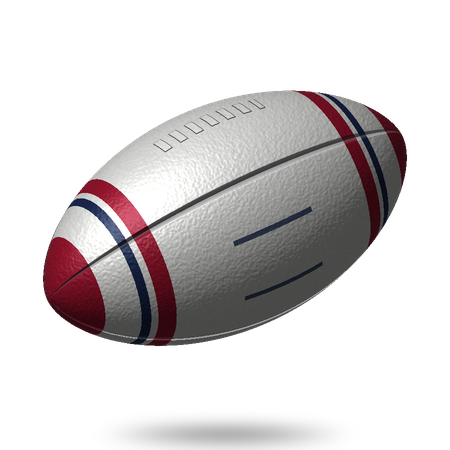
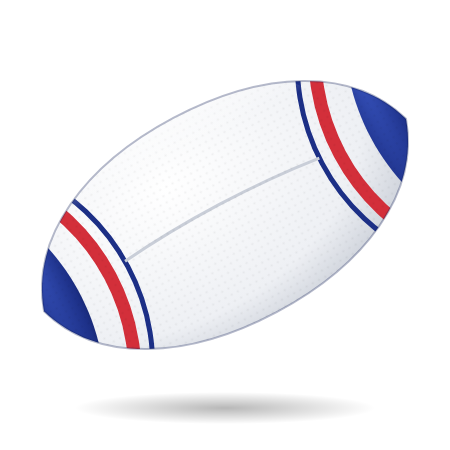
Site : bandeau des départements, choix de « À la une », sous-titres par sport, titres sans chevauchement, nouveau ballon de rugby [skip netlify]
Claude-Session: https://claude.ai/code/session_01VTxveCi6UCshbm1EzkaR32

diff --git a/app.html b/app.html
@@ -53,7 +53,8 @@ button,select,input{font:inherit;color:inherit}
 .week select option{color:#0f1a2e}
 .headline{display:flex;flex-wrap:wrap;align-items:flex-end;justify-content:space-between;gap:10px 24px;padding:26px 0 18px}
 .headline .kick{display:block;margin:0 0 8px;font:700 13px var(--body);letter-spacing:.12em;text-transform:uppercase;color:rgba(255,255,255,.8)}
-.headline h1{margin:0;font:800 clamp(52px,11vw,118px)/.86 var(--head);letter-spacing:-.01em;text-transform:none}
+.headline h1{margin:0;padding-bottom:.14em;font:800 clamp(52px,11vw,118px)/.86 var(--head);letter-spacing:-.01em;text-transform:none}
+.headline #lede{position:relative;margin-top:6px}
 .headline h1.long{font-size:clamp(44px,7.4vw,88px);line-height:.92}
 .headline p{margin:10px 0 0;max-width:620px;font-size:16.5px;color:rgba(255,255,255,.86)}
 .headline .when{font:700 clamp(18px,2.2vw,24px)/1.1 var(--head);letter-spacing:.02em;text-align:right}
@@ -172,6 +173,7 @@ main{padding:22px 0 50px}
 .une .k{font:700 12px var(--body);letter-spacing:.12em;text-transform:uppercase;color:var(--c)}
 .une h2{margin:6px 0 8px;font:800 clamp(30px,4.2vw,46px)/1 var(--head)}
 .une p{margin:0;color:var(--muted)}
+.une p.art{margin-top:10px}
 .une .big{display:flex;align-items:center;justify-content:center;gap:12px;padding:20px;border-radius:16px;background:var(--c);color:#fff}
 .une .big b{font:800 clamp(56px,8vw,84px)/1 var(--head)}
 .une .big span{font:600 14px var(--body);opacity:.85;text-align:center;max-width:120px}
@@ -344,7 +346,7 @@ footer a{color:var(--muted)}
 
 <script id="t-datajs" src="data.js"></script>
 <script id="app">
-const DEPS='Marne, Ardennes, Aube, Haute-Marne et Aisne';
+const DEPS='Marne - Ardennes - Aube - Haute-Marne et Aisne';
 (window.RSH_DATA ? Promise.resolve(window.RSH_DATA) : fetch('data.json',{cache:'no-store'}).then(r=>{if(!r.ok)throw new Error(r.status);return r.json();})).then(d=>{ try{ start(d); }catch(e){ console.error(e); rshFail(e); } }).catch(()=>{
   document.getElementById('main').innerHTML='<div class="empty">Les résultats n\'ont pas pu être chargés. Recharge la page dans un instant.</div>';
 });
@@ -365,14 +367,14 @@ function start(DATA){
 
   // ——— sports: order of the menu = order everywhere ———
   const SP={
-    'Football':{slug:'football',c:'#16794a',pat:'foot',unit:'buts',lede:'Du National à la D1 : tous les matchs de nos clubs, poule par poule.'},
-    'Basket':{slug:'basket',c:'#b4471b',pat:'basket',unit:'points',lede:'De la Betclic Élite aux championnats régionaux, masculins et féminins.'},
-    'Handball':{slug:'handball',c:'#1f55b3',pat:'hand',unit:'buts',lede:'De la Starligue à la Prénationale : les scores de nos équipes.'},
-    'Volley':{slug:'volley',c:'#9a6312',pat:'volley',unit:'sets',lede:'De la Ligue AM aux Nationales : les résultats set par set.'},
-    'Rugby':{slug:'rugby',c:'#8a1c3c',pat:'rugby',unit:'points',lede:'Fédérales et Régionales : les scores de nos clubs de rugby.'},
-    'Futsal':{slug:'futsal',c:'#5b3fb0',pat:'foot',unit:'buts',lede:'D2 et Régional : le futsal de nos clubs.'},
-    'Hockey sur glace':{slug:'hockey-sur-glace',c:'#0f6f8f',pat:'ice',unit:'buts',lede:'Le hockey sur glace de nos clubs, de la Division 2 aux équipes réserves.'},
-    'Roller hockey':{slug:'roller-hockey',c:'#a8306a',pat:'ice',unit:'buts',lede:'Le roller hockey de nos clubs, Nationale 1 et Nationale 3.'},
+    'Football':{slug:'football',c:'#16794a',pat:'foot',unit:'buts',lede:'De la Ligue 1 (ESTAC) au Départemental 1 : tous les matchs de nos clubs, poule par poule.'},
+    'Basket':{slug:'basket',c:'#b4471b',pat:'basket',unit:'points',lede:'De l\'Élite 2 et de la LF2 aux championnats régionaux, masculins et féminins.'},
+    'Handball':{slug:'handball',c:'#1f55b3',pat:'hand',unit:'buts',lede:'De la Nationale 1 à l\'Honneur régional : les scores de nos équipes.'},
+    'Volley':{slug:'volley',c:'#9a6312',pat:'volley',unit:'sets',lede:'De la Ligue A masculine aux Régionales : les résultats set par set.'},
+    'Rugby':{slug:'rugby',c:'#8a1c3c',pat:'rugby',unit:'points',lede:'De la Fédérale 3 aux Régionales : les scores de nos clubs de rugby.'},
+    'Futsal':{slug:'futsal',c:'#5b3fb0',pat:'foot',unit:'buts',lede:'De la D2 au Régional 1 : le futsal de nos clubs.'},
+    'Hockey sur glace':{slug:'hockey-sur-glace',c:'#0f6f8f',pat:'ice',unit:'buts',lede:'La Division 2 : les matchs du Phénix de Reims et des Gaulois de Châlons.'},
+    'Roller hockey':{slug:'roller-hockey',c:'#a8306a',pat:'ice',unit:'buts',lede:'De la Ligue Élite à la Nationale 4 : le roller hockey de nos clubs.'},
     'Water-polo':{slug:'water-polo',c:'#0b7a7a',pat:'pool',unit:'buts',lede:'La Nationale 3 Grand Est et Hauts-de-France : les matchs de nos clubs.'}
   };
   const HOME={c:'#12233d',pat:'home'};
@@ -481,6 +483,25 @@ function start(DATA){
   // where no standings are stored yet: the federation's competitions site of the sport
   const FED={'Football':'https://www.sportcorico.com/championnats-par-region/football/grand-est','Basket':'https://competitions.ffbb.com/','Handball':'https://www.ffhandball.fr/','Volley':'https://www.ffvbbeach.org/','Rugby':'https://competitions.ffr.fr/','Futsal':'https://www.sportcorico.com/championnats-par-region/football/grand-est','Hockey sur glace':'https://www.hockeyfrance.com/','Roller hockey':'https://ffroller-skateboard.fr/','Water-polo':'https://www.extranat.fr/waterpolo/cgi-bin/wp_calendar.php?action=structure&structure=111'};
   const clFor=(sport,key)=>CL.find(c=>c.sport===sport&&keyOf(c.key)===key);
+  // « À la une » : un match à enjeu (derby, haut de classement), de préférence régional et de football, avec un article
+  const PRESS_NO=/liguesdefoot|foot-national\.com\/data|ffvbbeach|ffhandball|ffbb\.com|hockeyfrance|scorenco|extranat|monclubhouse|fff\.fr|sportcorico|statfootball/i;
+  const isArticle=u=>!!u&&/^https?:/.test(u)&&!PRESS_NO.test(u);
+  const PRO=/ligue 1|ligue 2|betclic|[ée]lite 2|lf2|ligue a|ligue b|starligue|proligue|butagaz/i;
+  const rankIn=(r,team)=>{ const t=clFor(r.sport,keyOf(r.comp)); if(!t) return 99; const row=t.rows.find(x=>nrm(x.team)===nrm(team)); return row?row.r:99; };
+  function pickUne(res){
+    const score=r=>{ let s=0; const reg=r.level==='Régional';
+      if(isArticle(r.url)) s+=40; if(/sportclub-reims/i.test(r.url||'')) s+=10;
+      if(reg) s+=20; if(PRO.test(r.comp||'')) s-=25; if(r.div==='D1') s-=12;
+      if(r.hz&&r.az) s+=25;                                   // derby entre deux clubs de nos départements
+      const a=rankIn(r,r.home), b=rankIn(r,r.away);
+      if(a<=4&&b<=4) s+=22; else if(Math.min(a,b)<=3) s+=10;  // match du haut de tableau
+      if(r.sport==='Football') s+=12; else if(/Roller|Hockey|Handball|Basket/.test(r.sport)&&r.hz&&r.az) s+=8;
+      if(r.note) s+=3; return s; };
+    // il faut un article derrière : d'abord parmi les matchs amateurs qui en ont un, puis tous ceux qui en ont un
+    const withArt=res.filter(r=>isArticle(r.url)), amateur=withArt.filter(r=>!PRO.test(r.comp||''));
+    const pool=amateur.length?amateur:withArt.length?withArt:res;
+    return pool.slice().sort((a,b)=>score(b)-score(a))[0];
+  }
   const ourTeam=n=>{const c=clubMap.get(n); const z=c&&zoneOf(c.zone); return !!(z&&!/hors/i.test(z.dep||''));};
   function table(c,open){
     const cols=['g','n','p','bp','bc','diff'].filter(k=>c.rows.some(x=>x[k]!=null));
@@ -615,7 +636,7 @@ function start(DATA){
     $('tabs').innerHTML=`<a class="tab" href="${href(null,nx?'res':route.view)}" data-go="" data-view="${nx?'res':route.view}" ${!s&&!nx?'aria-current="page"':''}>À la une</a>`+
 
       PRIO.map(x=>`<a class="tab" style="--c:${SP[x].c}" href="${href(x,route.view)}" data-go="${SP[x].slug}" data-view="${route.view}" ${s===x?'aria-current="page"':''}>${esc(x)}</a>`).join('')+
-      `<a class="tab alt" href="${href(s,'next')}" data-go="${s?SP[s].slug:''}" data-view="next" ${nx?'aria-current="page"':''}><span aria-hidden="true">📅</span><span class="two">Le week-end<br>prochain</span></a>`;
+      `<a class="tab alt" href="${href(s,'next')}" data-go="${s?SP[s].slug:''}" data-view="next" ${nx?'aria-current="page"':''}><span aria-hidden="true">📅</span><span class="two">Ce<br>week-end</span></a>`;
     const act=$('tabs').querySelector('[aria-current]'); if(act){ const t=$('tabs'); if(act.offsetLeft+act.offsetWidth>t.scrollLeft+t.clientWidth||act.offsetLeft<t.scrollLeft) t.scrollLeft=Math.max(0,act.offsetLeft-40); }
   }
   function seo(res,fx){
@@ -671,9 +692,9 @@ function start(DATA){
     const prevEd=eds[eds.indexOf(cur)+1];
     const live=cur.enCours?`<div class="live"><b>Semaine en cours</b> · les scores arrivent au fil du week-end (vendredi et samedi soir, dimanche soir) ; l'édition complète paraît lundi matin.${prevEd?` <button type="button" class="lnk" data-prev>Voir la semaine précédente</button>`:''}</div>`:'';
     if(!route.sport){
-      const top=res.slice().sort((a,b)=>lvlRank(a)-lvlRank(b)||rank(a.sport)-rank(b.sport)||(b.note?1:0)-(a.note?1:0))[0];
+      const top=pickUne(res);
       const sports=PRIO.filter(s=>res.some(r=>r.sport===s));
-      main.innerHTML=live+(top?`<article class="une" style="--c:${SP[top.sport]?SP[top.sport].c:HOME.c}"><div><span class="k">À la une · ${esc(top.sport)} · ${esc(top.comp)}</span><h2>${esc(top.home)} – ${esc(top.away)}</h2><p>${esc(cur.edito||top.note||'')}</p></div>
+      main.innerHTML=live+(top?`<article class="une" style="--c:${SP[top.sport]?SP[top.sport].c:HOME.c}"><div><span class="k">À la une · ${esc(top.sport)} · ${esc(top.comp)}</span><h2>${esc(top.home)} – ${esc(top.away)}</h2><p>${esc(cur.edito||top.note||'')}</p>${isArticle(top.url)?`<p class="art"><a class="lnk" href="${esc(top.url)}" target="_blank" rel="noopener">Lire l'article →</a></p>`:''}</div>
         <div class="big"><span>${esc(top.home)}</span><b>${esc(top.sh)}–${esc(top.sa)}</b><span>${esc(top.away)}</span></div></article>`:'')+
         (sports.length?sports.map(s=>{const l=res.filter(r=>r.sport===s); return `<section class="sport" style="--sport:${SP[s].c}"><h2 class="sh"><a href="${href(s,'res')}" data-go="${SP[s].slug}">${esc(s)}</a><span class="cnt">${l.length} match${l.length>1?'s':''}</span><a class="go" href="${href(s,'res')}" data-go="${SP[s].slug}">Page ${esc(s.toLowerCase())} →</a></h2>${famsHtml(groups(l))}</section>`;}).join('')
           :`<div class="empty">Aucun résultat pour cette sélection. ${reset}</div>`)+
